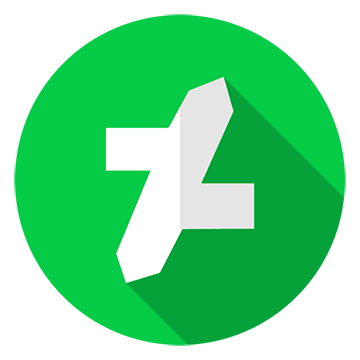
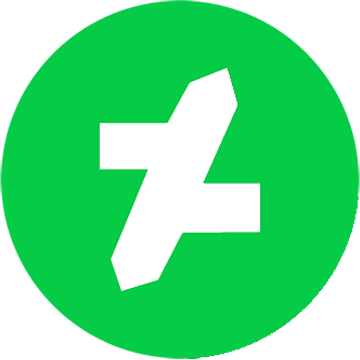
changed twitter links to bluesky

diff --git a/downloads/css/scenes-page.css b/downloads/css/scenes-page.css
@@ -1,0 +1,61 @@
+/* 
+
+	----  S C E N E S   P A G E   C S S   D O C  ----
+		~~~~~~~~~~~~~~~~~~~~~~~~~~~~~~~~~~~~~~~~~
+	For:
+	- 
+
+*/
+
+:root {
+	--gradient: linear-gradient(to left top, #DD2476 10%, #FF512F 90%);
+}
+
+/* BANNER IMAGE */
+.characters-banner {
+	background-image: url("../characters/web-images-characters-page/characters-banner.jpg");
+	width: 100%;
+	background-size: cover;
+	background-position: center top;
+}
+
+#characters-banner-id {
+	padding-top: 20%;
+	padding-bottom: 20%;
+}
+
+/* FOOTER */
+.upper-footer-background {
+	background-image: url("../../web-images-sidewide/sitewide-footer-banner.png");
+}
+
+/* MISC */
+
+.modal-header {
+	background-image: var(--gradient);
+}
+  
+.commission-card {
+	background: #222;
+	border: 1px solid #dd2476;
+	color: rgba(250, 250, 250, 0.8);
+	margin-bottom: 2rem;
+}
+  
+.btn-custom {
+	border: 5px solid;
+	border-image-slice: 1;
+	background: var(--gradient);
+	-webkit-background-clip: text;
+	-webkit-text-fill-color: transparent;
+	border-image-source:  var(--gradient); 
+	text-decoration: none;
+	transition: all .4s ease;
+}
+  
+.btn-custom:hover, .btn-custom:active {
+	background: var(--gradient);
+	-webkit-background-clip: none;
+	-webkit-text-fill-color: #fff;
+	box-shadow: #222 1px 0 10px;
+}

diff --git a/downloads/assets/index.html b/downloads/assets/index.html
@@ -743,7 +743,7 @@
                     <h3 class="title-footer-text">Connect more &raquo;</h3>
                     <ul class="large-footer-text m-0 p-0" style="list-style: none">
                         <li style="padding-bottom: 10px;">
-                            <a href="https://twitter.com/bluecolty/" target="_blank"><img src="../../web-images-sidewide/twitter-icon.png" class="footer-icons" alt="bluecolty icon"> Twitter</a>
+                            <a href="https://bsky.app/profile/bluecolty.bsky.social" target="_blank"><img src="../../web-images-sidewide/bluesky-icon.png" class="footer-icons" alt="bluecolty icon"> Bluesky</a>
                         </li>
                         
                         <li style="padding-bottom: 10px;">

diff --git a/art-projects/2d-art/index.html b/art-projects/2d-art/index.html
@@ -167,7 +167,7 @@
 					<h3 class="title-footer-text">Connect more &raquo;</h3>
 					<ul class="large-footer-text m-0 p-0" style="list-style: none">
 						<li style="padding-bottom: 10px;">
-							<a href="https://twitter.com/bluecolty/" target="_blank"><img src="../../web-images-sidewide/twitter-icon.png" class="footer-icons" alt="bluecolty icon"> Twitter</a>
+							<a href="https://bsky.app/profile/bluecolty.bsky.social" target="_blank"><img src="../../web-images-sidewide/bluesky-icon.png" class="footer-icons" alt="bluecolty icon"> Bluesky</a>
 						</li>
 						
 						<li style="padding-bottom: 10px;">

diff --git a/art-projects/3d-animations/index.html b/art-projects/3d-animations/index.html
@@ -167,7 +167,7 @@
 					<h3 class="title-footer-text">Connect more &raquo;</h3>
 					<ul class="large-footer-text m-0 p-0" style="list-style: none">
 						<li style="padding-bottom: 10px;">
-							<a href="https://twitter.com/bluecolty/" target="_blank"><img src="../../web-images-sidewide/twitter-icon.png" class="footer-icons" alt="bluecolty icon"> Twitter</a>
+							<a href="https://bsky.app/profile/bluecolty.bsky.social" target="_blank"><img src="../../web-images-sidewide/bluesky-icon.png" class="footer-icons" alt="bluecolty icon"> Bluesky</a>
 						</li>
 						
 						<li style="padding-bottom: 10px;">

diff --git a/art-projects/3d-stills/index.html b/art-projects/3d-stills/index.html
@@ -187,7 +187,7 @@
 					<h3 class="title-footer-text">Connect more &raquo;</h3>
 					<ul class="large-footer-text m-0 p-0" style="list-style: none">
 						<li style="padding-bottom: 10px;">
-							<a href="https://twitter.com/bluecolty/" target="_blank"><img src="../../web-images-sidewide/twitter-icon.png" class="footer-icons" alt="bluecolty icon"> Twitter</a>
+							<a href="https://bsky.app/profile/bluecolty.bsky.social" target="_blank"><img src="../../web-images-sidewide/bluesky-icon.png" class="footer-icons" alt="bluecolty icon"> Bluesky</a>
 						</li>
 						
 						<li style="padding-bottom: 10px;">

diff --git a/tutorials/blender-tutorials/index.html b/tutorials/blender-tutorials/index.html
@@ -167,7 +167,7 @@
 					<h3 class="title-footer-text">Connect more &raquo;</h3>
 					<ul class="large-footer-text m-0 p-0" style="list-style: none">
 						<li style="padding-bottom: 10px;">
-							<a href="https://twitter.com/bluecolty/" target="_blank"><img src="../../web-images-sidewide/twitter-icon.png" class="footer-icons" alt="bluecolty icon"> Twitter</a>
+							<a href="https://bsky.app/profile/bluecolty.bsky.social" target="_blank"><img src="../../web-images-sidewide/bluesky-icon.png" class="footer-icons" alt="bluecolty icon"> Bluesky</a>
 						</li>
 						
 						<li style="padding-bottom: 10px;">

diff --git a/tutorials/html-tutorials/index.html b/tutorials/html-tutorials/index.html
@@ -167,7 +167,7 @@
 					<h3 class="title-footer-text">Connect more &raquo;</h3>
 					<ul class="large-footer-text m-0 p-0" style="list-style: none">
 						<li style="padding-bottom: 10px;">
-							<a href="https://twitter.com/bluecolty/" target="_blank"><img src="../../web-images-sidewide/twitter-icon.png" class="footer-icons" alt="bluecolty icon"> Twitter</a>
+							<a href="https://bsky.app/profile/bluecolty.bsky.social" target="_blank"><img src="../../web-images-sidewide/bluesky-icon.png" class="footer-icons" alt="bluecolty icon"> Bluesky</a>
 						</li>
 						
 						<li style="padding-bottom: 10px;">

diff --git a/art-projects/index.html b/art-projects/index.html
@@ -179,7 +179,7 @@
 					<h3 class="title-footer-text">Connect more &raquo;</h3>
 					<ul class="large-footer-text m-0 p-0" style="list-style: none">
 						<li style="padding-bottom: 10px;">
-							<a href="https://twitter.com/bluecolty/" target="_blank"><img src="../web-images-sidewide/twitter-icon.png" class="footer-icons" alt="bluecolty icon"> Twitter</a>
+							<a href="https://bsky.app/profile/bluecolty.bsky.social" target="_blank"><img src="../web-images-sidewide/bluesky-icon.png" class="footer-icons" alt="bluecolty icon"> Bluesky</a>
 						</li>
 						
 						<li style="padding-bottom: 10px;">

diff --git a/commissions-tos/index.html b/commissions-tos/index.html
@@ -207,7 +207,7 @@
 					<h3 class="title-footer-text">Connect more &raquo;</h3>
 					<ul class="large-footer-text m-0 p-0" style="list-style: none">
 						<li style="padding-bottom: 10px;">
-							<a href="https://twitter.com/bluecolty/" target="_blank"><img src="../web-images-sidewide/twitter-icon.png" class="footer-icons" alt="bluecolty icon"> Twitter</a>
+							<a href="https://bsky.app/profile/bluecolty.bsky.social" target="_blank"><img src="../web-images-sidewide/bluesky-icon.png" class="footer-icons" alt="bluecolty icon"> Bluesky</a>
 						</li>
 						
 						<li style="padding-bottom: 10px;">

diff --git a/commissions/index.html b/commissions/index.html
@@ -685,7 +685,7 @@
 					<h3 class="title-footer-text">Connect more &raquo;</h3>
 					<ul class="large-footer-text m-0 p-0" style="list-style: none">
 						<li style="padding-bottom: 10px;">
-							<a href="https://twitter.com/bluecolty/" target="_blank"><img src="../web-images-sidewide/twitter-icon.png" class="footer-icons" alt="bluecolty icon"> Twitter</a>
+							<a href="https://bsky.app/profile/bluecolty.bsky.social" target="_blank"><img src="../web-images-sidewide/bluesky-icon.png" class="footer-icons" alt="bluecolty icon"> Bluesky</a>
 						</li>
 						
 						<li style="padding-bottom: 10px;">

diff --git a/downloads/index.html b/downloads/index.html
@@ -180,7 +180,7 @@
 					<h3 class="title-footer-text">Connect more &raquo;</h3>
 					<ul class="large-footer-text m-0 p-0" style="list-style: none">
 						<li style="padding-bottom: 10px;">
-							<a href="https://twitter.com/bluecolty/" target="_blank"><img src="../web-images-sidewide/twitter-icon.png" class="footer-icons" alt="bluecolty icon"> Twitter</a>
+							<a href="https://bsky.app/profile/bluecolty.bsky.social" target="_blank"><img src="../web-images-sidewide/bluesky-icon.png" class="footer-icons" alt="bluecolty icon"> Bluesky</a>
 						</li>
 						
 						<li style="padding-bottom: 10px;">

diff --git a/links/index.html b/links/index.html
@@ -390,7 +390,7 @@
 					<h3 class="title-footer-text">Connect more &raquo;</h3>
 					<ul class="large-footer-text m-0 p-0" style="list-style: none">
 						<li style="padding-bottom: 10px;">
-							<a href="https://twitter.com/bluecolty/" target="_blank"><img src="../web-images-sidewide/twitter-icon.png" class="footer-icons" alt="bluecolty icon"> Twitter</a>
+							<a href="https://bsky.app/profile/bluecolty.bsky.social" target="_blank"><img src="../web-images-sidewide/bluesky-icon.png" class="footer-icons" alt="bluecolty icon"> Bluesky</a>
 						</li>
 						
 						<li style="padding-bottom: 10px;">
